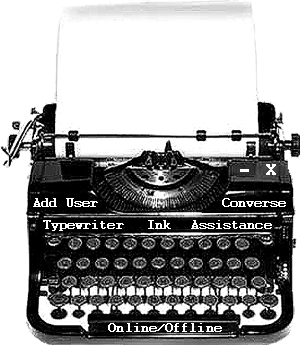
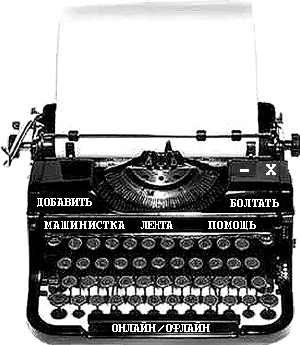
Перевод тем
+ исправление последнего пункта README.md

diff --git a/README.md b/README.md
@@ -159,7 +159,6 @@ Dpeta крайне рекомендует прочитать эти руково
 - [ ] Проверка
 * Cdasl:
 - [X] Текст
-- [ ] Визуал
 - [ ] Проверка
 * crosbytop:
 - [X] Текст
@@ -171,7 +170,6 @@ Dpeta крайне рекомендует прочитать эти руково
 - [ ] Проверка
 * danceofthorns:
 - [X] Текст
-- [ ] Визуал
 - [ ] Проверка
 * enamel:
 - [X] Текст
@@ -199,7 +197,6 @@ Dpeta крайне рекомендует прочитать эти руково
 - [ ] Проверка
 * johntierchum:
 - [X] Текст
-- [ ] Визуал
 - [ ] Проверка
 * MSChum:
 - [X] Текст
@@ -223,11 +220,10 @@ Dpeta крайне рекомендует прочитать эти руково
 - [ ] Проверка
 * sbahj:
 - [X] Текст
-- [ ] Визуал
+- [ ] Визуал (нужно ли?)
 - [ ] Проверка
 * Scratch:
 - [X] Текст
-- [ ] Визуал
 - [ ] Проверка
 * squiddlechum:
 - [X] Текст
@@ -255,5 +251,8 @@ Dpeta крайне рекомендует прочитать эти руково
 - [ ] Проверка
 * typewriter:
 - [X] Текст
-- [ ] Визуал
+- [X] Визуал
+- [ ] Проверка
+* Zodiac:
+- [X] Текст
 - [ ] Проверка
